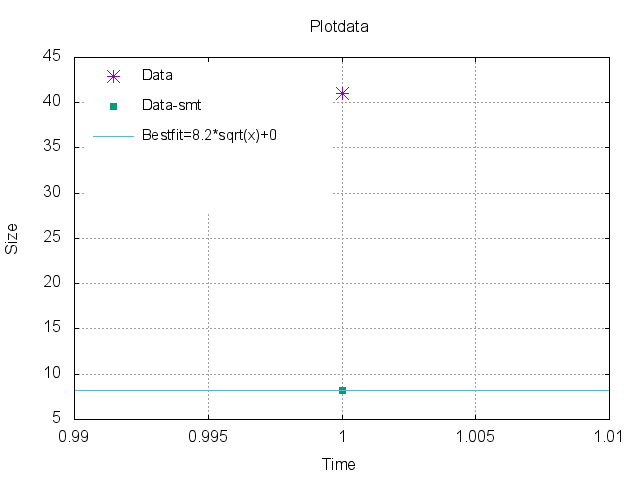
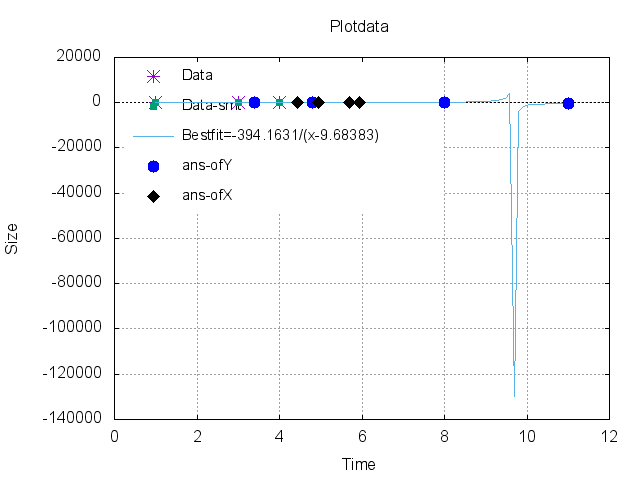
Now bestfit accept differents columns to make the fit

diff --git a/fit/bestfit.js b/fit/bestfit.js
@@ -1,5 +1,6 @@
 'use strict';
 var  f              = require('./fitFunction'),
+     finv =         require('./fitFunctionInv'),
      betterfit      = require('./betterfit'),
      smoothingdata  = require('./smoothingdata'),
      noiseeliminatedata = require('./noise_eliminator'),
@@ -8,7 +9,7 @@ var  f              = require('./fitFunction'),
      gety               = require('./gety'),
      Fit                = require('./Fit'),
      setparams          = require('./setparams_bestfit'),
-     fit={},array_y= [],_fit ,array_x=[],interval;
+     fit={},array_y= [],_fit ,array_x=[],_setparams;
 /** @function
  * This function calculate the best fit to a Array given and make
  * a calculus of second argument with get_y and first argument with
@@ -18,12 +19,12 @@ var  f              = require('./fitFunction'),
  */
 module.exports = function(_arrayFit, get_y, get_x,options,callback) {
     if(!_arrayFit){return ;}
-    setparams(get_y, get_x,options,callback);
-    get_x = get_x || [] ;
-    get_y = get_y || [] ;
+    _setparams = setparams(get_y, get_x,options,callback);
+    get_x  = _setparams.get_x; get_y= _setparams.get_y ;
+    options = _setparams.options; callback = _setparams.callback ;
     var fits_name = options.fits_name ,
         smoothing = options.smoothing, alpha = options.alpha, smoothingmethod = options.smoothingmethod,noiseeliminate= options.noiseeliminate,
-        arrayFit=[],a,b ;
+        arrayFit=[],a,b ,using = options.using;
     /** Is used the fit if is passed */
     if (!(_arrayFit instanceof Array)) {
       fit = _arrayFit.fit;
@@ -35,7 +36,7 @@ module.exports = function(_arrayFit, get_y, get_x,options,callback) {
     */
       var l = _arrayFit.length,j;
       for ( j = 0; j < l; j++) {
-        arrayFit[j] = [_arrayFit[j][0],_arrayFit[j][1]] ;
+        arrayFit[j] = [ _arrayFit[j][ using[0] ], _arrayFit[j][ using[1] ] ] ;
       }
       if (l ===1) { arrayFit.unshift([0,0]); }
       a = arrayFit[0][0] ;b =arrayFit[l-1][0] ;
@@ -52,19 +53,16 @@ module.exports = function(_arrayFit, get_y, get_x,options,callback) {
     function h(x) {
      return  f(x,fit.best.name,fit[fit.best.name].regression.equation);
     }
-   /** Calculate the values of "y" using get_y. */
+    /** Calculate the values of "y" using get_y. */
     array_y = gety(h, get_y);
-   /** Choices the best  interval to solve the equation fit(x)=get_x.*/
-    if( fit.best.name !== 'logarithmic'){
-      interval = [a-6*(b-a),b+6*(b-a)];
-    } else {
-     interval = [a<0 ? 0.01 : a,b+5*(b-a)];
+    /**Define the inverse function*/
+    function hinv(x) {
+     return  finv(x,fit.best.name,fit[fit.best.name].regression.equation);
     }
-   var initial = b+a ;
-  /** Obtain the values "x" using get_x.*/
-   array_x = getx(fit.best.f,get_x, interval,initial) ;
-   /** Build the fit object to return.*/
-   _fit ={ ans_ofY         : array_y    ,
+    /** Obtain the values "x" using get_x.*/
+    array_x = getx(hinv,get_x) ;
+    /** Build the fit object to return.*/
+    _fit ={ ans_ofY        : array_y    ,
            ans_ofX         : array_x     ,
            fitOptions      : options    ,
            fitUsed         : fit.best.name ,
@@ -73,11 +71,11 @@ module.exports = function(_arrayFit, get_y, get_x,options,callback) {
            fitPointsUsed   : arrayFit,
            fitWithError    : fit.best.error,
            fit             : fit
-         };
+    };
           /** The callback function*/
-   if (callback) {
+    if (callback) {
     callback(_fit);
-   }
-   var fit_ =  new Fit(_fit);
-   return fit_ ;
+    }
+    var fit_ =  new Fit(_fit);
+    return fit_ ;
 } ;

diff --git a/fit/setparams_bestfit.js b/fit/setparams_bestfit.js
@@ -1,15 +1,28 @@
 'use strict';
 module.exports = function (get_y, get_x,options,callback) {
-  if(get_x.length === undefined ){options = get_x ; get_x = undefined;}
-  if(get_y.length === undefined ){ options = get_y ; get_y = undefined;}
+  if(get_x && get_x.length === undefined ){options = get_x ; get_x = undefined;}
+  if(get_y && get_y.length === undefined ){
+    options = get_y ; get_y = undefined;
+  }
   if(typeof options ==='function'){callback = options ; options = undefined;}
-  options = options ||
-  {smoothing : false, noiseeliminate : false,
-  smoothingmethod :'exponential',alpha : 0.8,
-  fits_name:['linear','exponential','logarithmic','power','polynomial','inverse','sqrt']} ;
+  if(!options){
+    options ={
+      using : [0,1],
+    smoothing        : false,
+    noiseeliminate   : false,
+    smoothingmethod   :'exponential',alpha : 0.9,
+    fits_name         :['linear','exponential','logarithmic','power','polynomial','inverse','sqrt']};
+  }
   if(options.smoothing === undefined){options.smoothing = false ;}
   if(options.noiseeliminate === undefined){options.noiseeliminate = false;}
   options.smoothingmethod = options.smoothingmethod || 'exponential' ;
-  options.alpha = options.alpha || 0.8 ;
+  options.alpha = options.alpha || 0.9 ;
+  options.using = options.using || [0,1] ;
   options.fits_name = options.fits_name ||['linear','exponential','logarithmic','power','polynomial','inverse','sqrt'];
+  if( !get_x){ get_x = [];}
+  if( !get_y){ get_y = [];}
+ return {get_x : get_x,
+          get_y : get_y,
+        options : options,
+      callback : callback};
 };

diff --git a/fit/getx.js b/fit/getx.js
@@ -1,24 +1,19 @@
 'use strict';
-var findroot = require('../lib/findroot'), length_get_x ,array_x=[],arrayX = [];
+var length_get_x ,array_x=[],arrayX = [];
 /**@function
  * This function solve the equation h(x)=y_i. The y_i are given into get_x.
  * @param {function} h, {Array} get_x.
  * @return {Array} values of "x".
  */
-module.exports = function (h, get_x, interval,initial ) {
+module.exports = function (h, get_x ) {
   if (!h) {return ;}
-  var i, options =  {npoints_DNumeric : 100000, presicion : 0.01 , nstepsmax : 100000  };
+  var i;
   length_get_x = get_x.length ;
-  function g(f,y) {
-   return function (x) {
-     return h(x)-y ;
-   };
-   }
   for ( i = 0; i < length_get_x; i++) {
      array_x[i] = [];
-// Find the root using the module findroot.
-     arrayX[i]= findroot(g(h,get_x[i]),interval,initial,options) ;
-     if(arrayX[i]){array_x[i][0]=arrayX[i].Root;array_x[i][1]= get_x[i] ;}
+// Find the root using the inverse functions.
+     arrayX[i]= h(get_x[i]);
+     if(arrayX[i]){array_x[i][0]=arrayX[i] ; array_x[i][1]= get_x[i] ;}
   }
    return array_x;
 } ;

diff --git a/testing.js b/testing.js
@@ -14,9 +14,9 @@ var   growth = require('./fit/bestfit'),
       path_ansY = __dirname + '/plots/plot_ansy.dat',
       initialpoint =  0.5 ,
       interval =  [-3,5] ,
-      test_array= [[1,41]],
-      test_query = [] ,
-      test_y     = [] ,
+      test_array= [[0,40],[1,48],[3,56],[4,70]],
+      test_query = [3.4, 4.8, 8, 11] ,
+      test_y     = [75,83,99,105] ,
       array1 = [[1,   0,  0,   0,   0,   0],
                 [0.8 ,0,  0.2, 0 ,  0,   0 ],
                 [0 ,  0.2,0,   0.8 ,0,   0 ],
@@ -31,13 +31,13 @@ var   growth = require('./fit/bestfit'),
      V2= new nsolve.AL.vector([0,-1,1]),
      alpha , smoothing = true, noiseeliminate = false,
      smoothingmethod  ='exponential',
-      fit_methods = ['sqrt'];
+     fit_methods = ['sqrt','inverse'];
 
      function f(x) {
        return   Math.cos(x)-x;
      }
      commander
-     .option('-a, --alpha [n]', 'Value of alpha', parseFloat, 0.2)
+     .option('-a, --alpha [n]', 'Value of alpha', parseFloat)
      .parse(process.argv);
      alpha = commander.alpha || alpha ;
      if (alpha > 1) {

diff --git a/test/test.js b/test/test.js
@@ -69,10 +69,13 @@ assert.equal(typeof fitted.fit.best.f, 'function'); // should returns true
 
 it('The ans_ofX should be a array.', function () {assert.equal(Array.isArray(fitted.ans_ofX),true); // should returns true
               });
+it('The first result of ans_ofX should be 8.71 .', function () {              assert.equal(fitted.ans_ofX[0][0].truncate(2),4.42); // should returns true
+                                                  });
 
 it('The ans_ofY should be a array.', function () {              assert.equal(Array.isArray(fitted.ans_ofY),true); // should returns true
                   });
-
+it('The first result of ans_ofY should be 61.03 .', function () {              assert.equal(fitted.ans_ofY[0][1].truncate(2),62.72); // should returns true
+                                    });
 it('The best fit used should be the exponential', function () {
 assert.equal(fitted.fitUsed,'inverse'); // should returns true
           });

diff --git a/fit/fitFunctionInv.js b/fit/fitFunctionInv.js
@@ -23,8 +23,13 @@ module.exports = function (x,nameF,equationFit) {
             } ,
         polynomial: function (x) {
         return  (-equationFit[1] +Math.sqrt(equationFit[1]*equationFit[1]-4*(equationFit[0] - x)*equationFit[2]))/(2*equationFit[2]) ;
-      }
-
+        },
+        inverse: function (x) {
+          return equationFit[0]/  x + equationFit[1] ;
+        },
+        sqrt: function (x) {
+          return Math.pow((x- equationFit[1])/equationFit[0],2 );
+        }
     };
 return Fname[nameF](x) ;
 };
